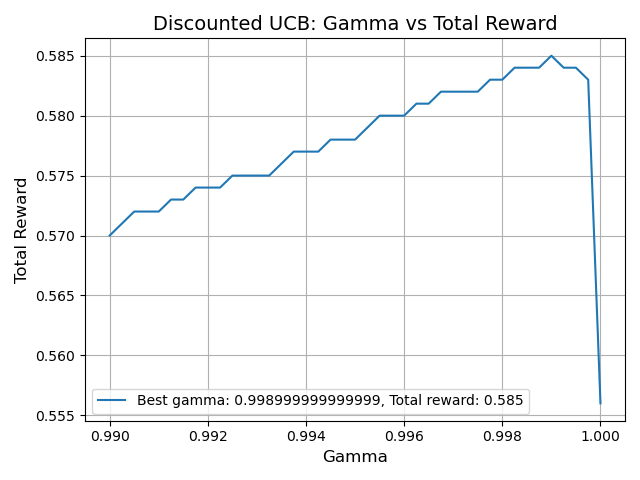
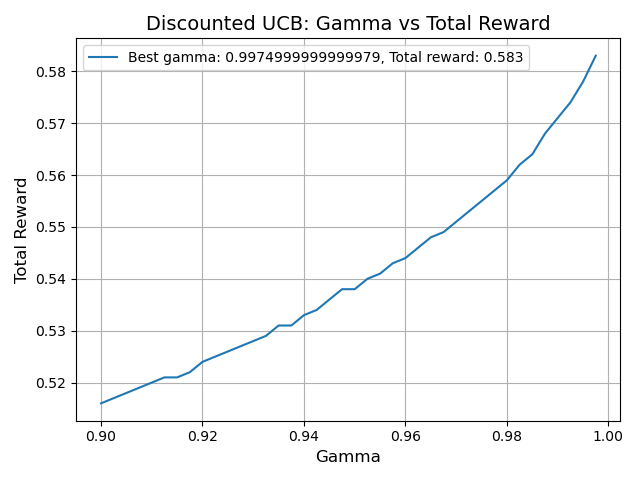
final before testing UCB

diff --git a/UCBtest.py b/UCBtest.py
@@ -16,7 +16,7 @@ def SWUCBExperiment():
 
     # Find the best sliding window in the training session
     for window_size in range(1, max_window_size + 1):
-        agent = SlidingWindowUCBAgent(c=3, window_size=window_size * 60)
+        agent = SlidingWindowUCBAgent(window_size=window_size * 60)
 
         agent.initialize(env.n_camera)
 
@@ -47,7 +47,7 @@ def SWUCBExperiment():
         total_rewards.append(total_reward)
 
     # Use the best sliding window for testing
-    agent = SlidingWindowUCBAgent(c=3, window_size=best_window_size)
+    agent = SlidingWindowUCBAgent(window_size=best_window_size)
     agent.initialize(env.n_camera)
     env.reset(mode='test')
 
@@ -82,9 +82,9 @@ def SWUCBExperiment():
 def DiscountedUCBExperiment():
     np.random.seed(0)
     env = ROFARS_v1()
-    min_gamma = 0.5
+    min_gamma = 0.9
     max_gamma = 1.0
-    gamma_step = 0.025
+    gamma_step = 0.0025
     best_gamma = min_gamma
     best_reward = -np.inf
 
@@ -93,7 +93,7 @@ def DiscountedUCBExperiment():
 
     # Find the best gamma in the training session
     for gamma in np.arange(min_gamma, max_gamma, gamma_step):
-        agent = DiscountedUCBAgent(c=3, gamma=gamma)
+        agent = DiscountedUCBAgent(gamma=gamma)
         agent.initialize(env.n_camera)
 
         # Training loop
@@ -123,7 +123,7 @@ def DiscountedUCBExperiment():
         total_rewards.append(total_reward)
 
     # Use the best gamma for testing
-    agent = DiscountedUCBAgent(c=5, gamma=best_gamma)
+    agent = DiscountedUCBAgent(gamma=best_gamma)
     agent.initialize(env.n_camera)
     env.reset(mode='test')
 
@@ -155,7 +155,6 @@ def DiscountedUCBExperiment():
     plt.savefig('DiscountedUCB.png')
     plt.show()
 
-
 def SWUCBOpt(agent_type):
     if agent_type == 1:
         print("UCB-1")
@@ -163,8 +162,6 @@ def SWUCBOpt(agent_type):
         print("SW-UCB")
     elif agent_type == 3:
         print("D-UCB")
-
-
 
     np.random.seed(0)
     env = ROFARS_v1()
@@ -176,10 +173,10 @@ def SWUCBOpt(agent_type):
     elif agent_type == 2:
         inp = int(input("Enter the window size: "))
         best_window_size = inp * 60
-        agent = SlidingWindowUCBAgent(c=3, window_size=best_window_size)
+        agent = SlidingWindowUCBAgent(window_size=best_window_size)
     elif agent_type == 3:
         inp = float(input("Enter the gamma: "))
-        agent = DiscountedUCBAgent(c=3, gamma=inp)
+        agent = DiscountedUCBAgent(gamma=inp)
     agent.initialize(env.n_camera)
 
     # Training loop
@@ -203,9 +200,9 @@ def SWUCBOpt(agent_type):
     if agent_type == 1:
         agent = UCBAgent()
     elif agent_type == 2:
-        agent = SlidingWindowUCBAgent(c=3, window_size=best_window_size)
+        agent = SlidingWindowUCBAgent(window_size=best_window_size)
     elif agent_type == 3:
-        agent = DiscountedUCBAgent(c=3, gamma=0.5)
+        agent = DiscountedUCBAgent(gamma=0.5)
     agent.initialize(env.n_camera)
 
     env.reset(mode='test')
@@ -267,30 +264,28 @@ Percentage growth = (Difference / Baseline) x 100 = 0.207 / 0.317 x 100 = 65.3%
 Growth: 65.3%.
 
 
-Run 2 UCB1:
-[total reward]: 0.558                    
+Run 2 UCB1:                                             
 ====== TESTING======
-[total reward]: 0.514
+[total reward]: 0.503
 
-Difference Strong Baseline = Run 2 - Baseline = 0.514 - 0.506 = 0.008
-Percentage growth = (Difference / Baseline) x 100 = 0.008 / 0.506 x 100 = 1.6%
+Difference Strong Baseline = Run 2 - Baseline = 0.503 - 0.506 = -0.003
+Percentage growth = (Difference / Baseline) x 100 = -0.003 / 0.506 x 100 = -0.6%
 
 
-Difference Weak Baseline = Run 2 - Baseline = 0.514 - 0.317 = 0.197
-Percentage growth = (Difference / Baseline) x 100 = 0.197 / 0.317 x 100 = 62.1%
-Growth: 62.1%.
+Difference Weak Baseline = Run 2 - Baseline = 0.503 - 0.317 = 0.186
+Percentage growth = (Difference / Baseline) x 100 = 0.186 / 0.317 x 100 = 58.7%
 
 Run 3 D-UCB:
 ====== TESTING gamma ======
-[total reward]: 0.554
-Best gamma: 0.998999999999999
-Best [total reward]: 0.585
+[total reward]: 0.559
+Best gamma: 0.9974999999999979
+Best [total reward]: 0.586
 
-Difference Strong Baseline = Run 3 - Baseline = 0.554 - 0.506 = 0.048
-Percentage growth = (Difference / Baseline) x 100 = 0.048 / 0.506 x 100 = 9.5%
+Difference Strong Baseline = Run 3 - Baseline = 0.559 - 0.506 = 0.053
+Percentage growth = (Difference / Baseline) x 100 = 0.053 / 0.506 x 100 = 10.5%
 
-Difference Weak Baseline = Run 3 - Baseline = 0.554 - 0.317 = 0.237
-Percentage growth = (Difference / Baseline) x 100 = 0.237 / 0.317 x 100 = 74.7%
+Difference Weak Baseline = Run 3 - Baseline = 0.559 - 0.317 = 0.242
+Percentage growth = (Difference / Baseline) x 100 = 0.242 / 0.317 x 100 = 76.2%
 """
 
 

diff --git a/agents.py b/agents.py
@@ -114,10 +114,10 @@ class LSTM_RNN_Agent:
 
 
 class SlidingWindowUCBAgent:
-    def __init__(self, c=5, window_size=100):
+    def __init__(self, window_size=100):
         self.counts = None
         self.values = None
-        self.c = c
+        self.c = 3
         self.window_size = window_size
         self.recent_rewards = None
         self.recent_counts = None
@@ -158,12 +158,12 @@ class SlidingWindowUCBAgent:
                 self.recent_counts[i].append(0)
 
 class DiscountedUCBAgent:
-    def __init__(self, c=5, gamma=0.9):
+    def __init__(self, gamma=0.9):
         self.counts = None
         self.discounted_counts = None
         self.values = None
         self.discounted_rewards = None
-        self.c = c
+        self.c = 3
         self.gamma = gamma
         self.total_time_steps = 0
 
@@ -173,20 +173,7 @@ class DiscountedUCBAgent:
         self.values = np.zeros(n_actions)
         self.discounted_rewards = np.zeros(n_actions)
 
-    # def get_action(self):
-    #     epsilon = 1e-8
-    #     if self.counts.min() == 0:
-    #         idx = np.random.choice(np.where(self.counts == 0)[0])
-    #         action = np.zeros(len(self.values))
-    #         action[idx] = 1
-    #     else:
-    #         discounted_means = self.discounted_rewards / (self.discounted_counts + epsilon)
-    #         nt_gamma = np.sum(self.discounted_counts)
-    #         ct_numerator = self.c * np.log(nt_gamma + epsilon)
-    #         ct_denominator = self.discounted_counts + epsilon
-    #         ct = 2 * np.sqrt(np.maximum(ct_numerator / ct_denominator, 0))
-    #         action = discounted_means + ct
-    #     return action
+
     def get_action(self):
         if self.counts.min() == 0:
             idx = np.random.choice(np.where(self.counts == 0)[0])
@@ -219,10 +206,10 @@ class DiscountedUCBAgent:
 
 
 class UCBAgent:
-    def __init__(self, c=5):
+    def __init__(self):
         self.counts = None
         self.values = None
-        self.c = c
+        self.c = 3
         self.total_time_steps = 0
 
     def initialize(self, n_actions):
